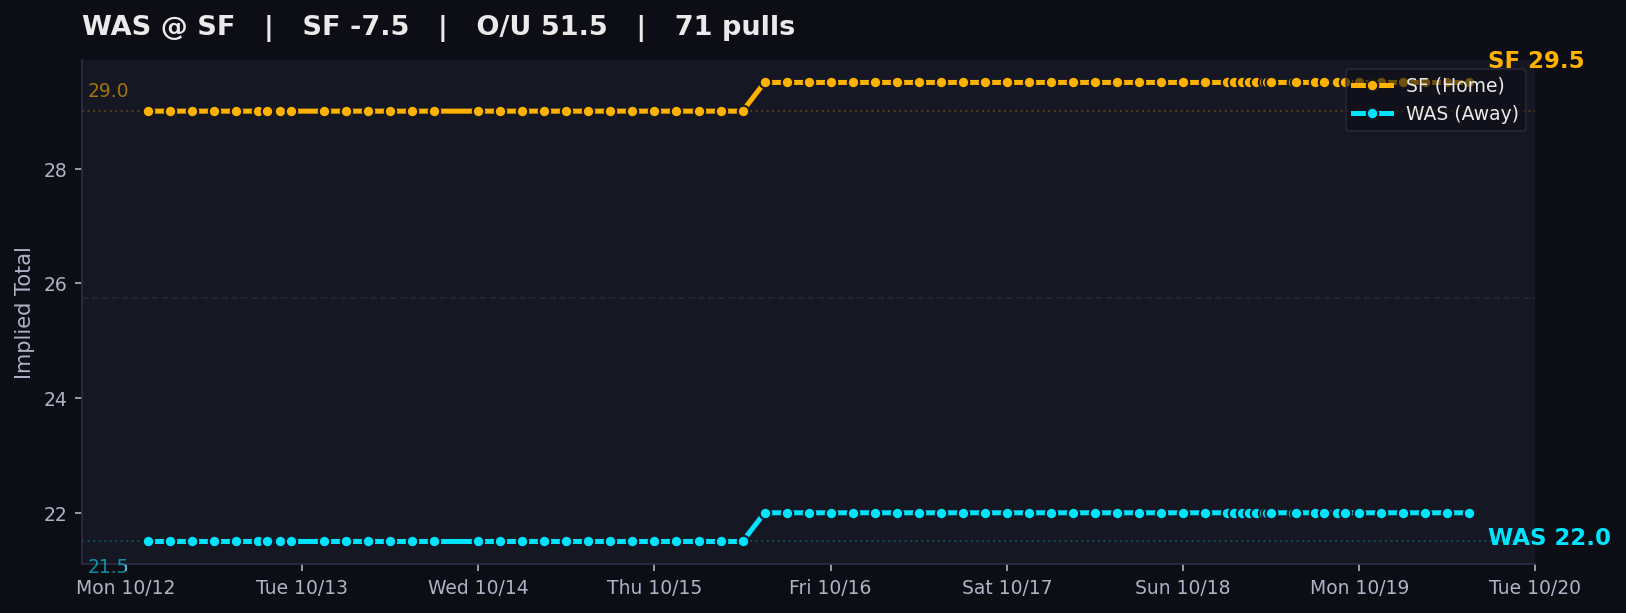
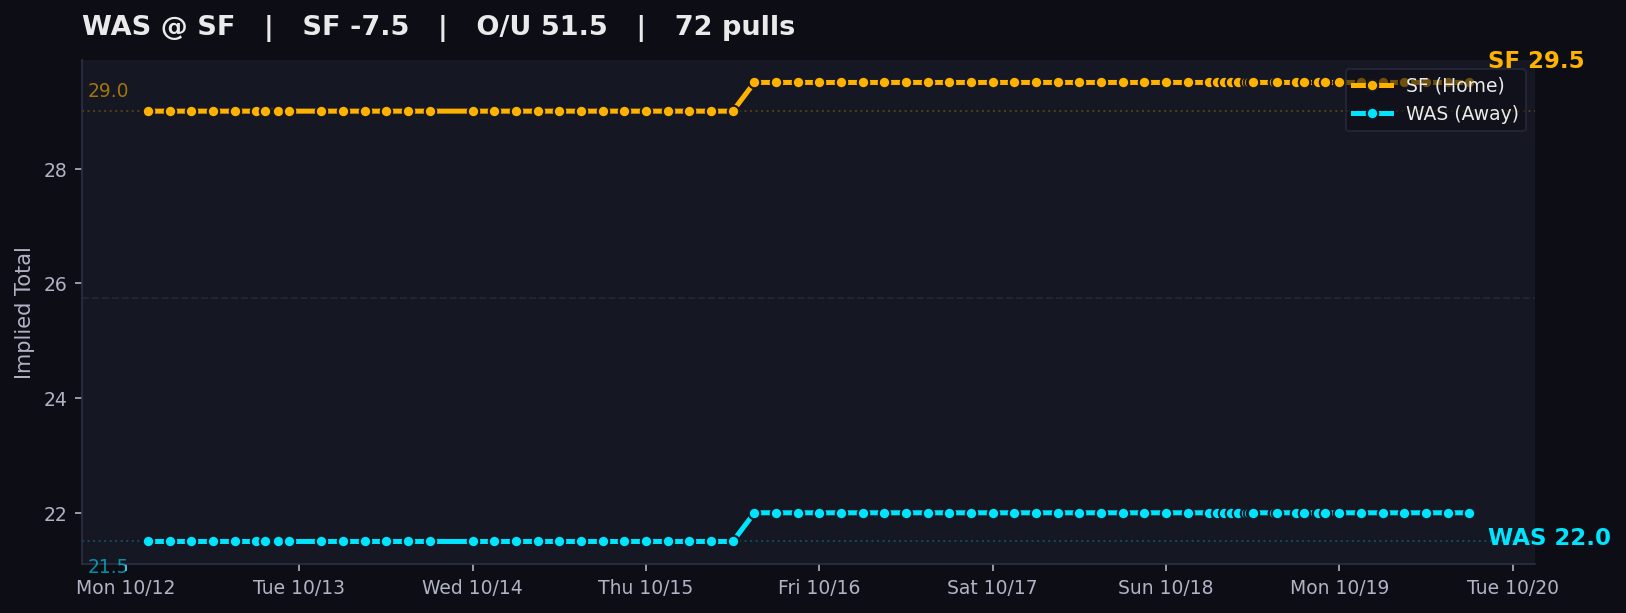
auto: local tracker sync

diff --git a/charts/index.html b/charts/index.html
@@ -311,7 +311,7 @@
     </div>
     <p class='sub'>
       DraftKings main lines &middot; Pinnacle cross-check &middot; Updated by the local Mac tracker<br>
-      Page rendered Mon Oct 19, 2026 3:00 PM CDT &middot; 835 valid chart dots &middot; 880 total pull attempts
+      Page rendered Mon Oct 19, 2026 6:00 PM CDT &middot; 836 valid chart dots &middot; 881 total pull attempts
       <span class='legend-box'>
         <span class='dot-teal'>● Away implied total</span>
         <span class='dot-amber'>● Home implied total</span>
@@ -324,9 +324,9 @@
     </details>
   </header>
 
-  <div id='feed-banner' class='alert-banner healthy' data-banner-kind='healthy' data-feed-ts='2026-10-19T20:00:01.441428+00:00' data-feed-ts-label='Mon Oct 19, 3:00 PM CDT'>
+  <div id='feed-banner' class='alert-banner healthy' data-banner-kind='healthy' data-feed-ts='2026-10-19T23:00:01.141889+00:00' data-feed-ts-label='Mon Oct 19, 6:00 PM CDT'>
             <span class='status-dot'></span>
-            <b>Feed Healthy:</b> All 1 open markets updated. 13 games have started and is showing its final verified pregame line. Board age based on oldest open market: <span id='feed-time'>Mon Oct 19, 3:00 PM CDT</span> (<span id='feed-age-dynamic'>just now</span>).
+            <b>Feed Healthy:</b> All 1 open markets updated. 13 games have started and is showing its final verified pregame line. Board age based on oldest open market: <span id='feed-time'>Mon Oct 19, 6:00 PM CDT</span> (<span id='feed-age-dynamic'>just now</span>).
         </div>
 
   <nav class='filter-bar' aria-label='Filter games by slate'>
@@ -396,7 +396,7 @@
                 <div><span>Last valid pull</span><strong>Thu 6:00 PM CT</strong></div>
                 <div><span>Chart dots</span><strong>34</strong></div>
             </div>
-                    <img class='expanded-chart' src='SEA_DEN.png?v=1792440020' alt='SEA at DEN line movement chart'>
+                    <img class='expanded-chart' src='SEA_DEN.png?v=1792450820' alt='SEA at DEN line movement chart'>
                     <p class='movement-note'>Total 42.5 → 40.5</p>
                 </div>
             </td>
@@ -437,7 +437,7 @@
                 <div><span>Last valid pull</span><strong>Sun 8:00 AM CT</strong></div>
                 <div><span>Chart dots</span><strong>56</strong></div>
             </div>
-                    <img class='expanded-chart' src='HOU_JAX.png?v=1792440020' alt='HOU at JAX line movement chart'>
+                    <img class='expanded-chart' src='HOU_JAX.png?v=1792450820' alt='HOU at JAX line movement chart'>
                     <p class='movement-note'>Spread JAX -3.0 → -2.5; Total 43.5 → 41.5</p>
                 </div>
             </td>
@@ -478,7 +478,7 @@
                 <div><span>Last valid pull</span><strong>Sun 12:00 PM CT</strong></div>
                 <div><span>Chart dots</span><strong>62</strong></div>
             </div>
-                    <img class='expanded-chart' src='CAR_PHI.png?v=1792440020' alt='CAR at PHI line movement chart'>
+                    <img class='expanded-chart' src='CAR_PHI.png?v=1792450820' alt='CAR at PHI line movement chart'>
                     <p class='movement-note'>Spread CAR +1.5 → -3.0; Total 42.5 → 39.5</p>
                 </div>
             </td>
@@ -513,7 +513,7 @@
                 <div><span>Last valid pull</span><strong>Sun 12:00 PM CT</strong></div>
                 <div><span>Chart dots</span><strong>55</strong></div>
             </div>
-                    <img class='expanded-chart' src='CHI_ATL.png?v=1792440020' alt='CHI at ATL line movement chart'>
+                    <img class='expanded-chart' src='CHI_ATL.png?v=1792450820' alt='CHI at ATL line movement chart'>
                     <p class='movement-note'>Spread CHI -3.0 → -1.5; Total 48.5 → 51.5</p>
                 </div>
             </td>
@@ -548,7 +548,7 @@
                 <div><span>Last valid pull</span><strong>Sun 12:00 PM CT</strong></div>
                 <div><span>Chart dots</span><strong>62</strong></div>
             </div>
-                    <img class='expanded-chart' src='PIT_TB.png?v=1792440020' alt='PIT at TB line movement chart'>
+                    <img class='expanded-chart' src='PIT_TB.png?v=1792450820' alt='PIT at TB line movement chart'>
                     <p class='movement-note'>Spread PIT -3.0 → -2.5; Total 40.5 → 37.5</p>
                 </div>
             </td>
@@ -583,7 +583,7 @@
                 <div><span>Last valid pull</span><strong>Sun 12:00 PM CT</strong></div>
                 <div><span>Chart dots</span><strong>62</strong></div>
             </div>
-                    <img class='expanded-chart' src='NO_NYG.png?v=1792440020' alt='NO at NYG line movement chart'>
+                    <img class='expanded-chart' src='NO_NYG.png?v=1792450820' alt='NO at NYG line movement chart'>
                     <p class='movement-note'>Spread NO +1.5 → -1.5</p>
                 </div>
             </td>
@@ -618,7 +618,7 @@
                 <div><span>Last valid pull</span><strong>Sun 12:00 PM CT</strong></div>
                 <div><span>Chart dots</span><strong>55</strong></div>
             </div>
-                    <img class='expanded-chart' src='BAL_CLE.png?v=1792440020' alt='BAL at CLE line movement chart'>
+                    <img class='expanded-chart' src='BAL_CLE.png?v=1792450820' alt='BAL at CLE line movement chart'>
                     <p class='movement-note'>Spread BAL -4.5 → -3.0; Total 40.5 → 39.5</p>
                 </div>
             </td>
@@ -653,7 +653,7 @@
                 <div><span>Last valid pull</span><strong>Sun 12:00 PM CT</strong></div>
                 <div><span>Chart dots</span><strong>62</strong></div>
             </div>
-                    <img class='expanded-chart' src='NYJ_NE.png?v=1792440020' alt='NYJ at NE line movement chart'>
+                    <img class='expanded-chart' src='NYJ_NE.png?v=1792450820' alt='NYJ at NE line movement chart'>
                     <p class='movement-note'>Total 44.5 → 43.5</p>
                 </div>
             </td>
@@ -688,7 +688,7 @@
                 <div><span>Last valid pull</span><strong>Sun 12:00 PM CT</strong></div>
                 <div><span>Chart dots</span><strong>62</strong></div>
             </div>
-                    <img class='expanded-chart' src='TEN_IND.png?v=1792440020' alt='TEN at IND line movement chart'>
+                    <img class='expanded-chart' src='TEN_IND.png?v=1792450820' alt='TEN at IND line movement chart'>
                     <p class='movement-note'>Spread IND -7.0 → -6.5; Total 44.5 → 43.5</p>
                 </div>
             </td>
@@ -729,7 +729,7 @@
                 <div><span>Last valid pull</span><strong>Sun 3:20 PM CT</strong></div>
                 <div><span>Chart dots</span><strong>64</strong></div>
             </div>
-                    <img class='expanded-chart' src='LAC_KC.png?v=1792440020' alt='LAC at KC line movement chart'>
+                    <img class='expanded-chart' src='LAC_KC.png?v=1792450820' alt='LAC at KC line movement chart'>
                     <p class='movement-note'>Spread KC -8.5 → -7.5; Total 43.5 → 41.5</p>
                 </div>
             </td>
@@ -764,7 +764,7 @@
                 <div><span>Last valid pull</span><strong>Sun 3:00 PM CT</strong></div>
                 <div><span>Chart dots</span><strong>62</strong></div>
             </div>
-                    <img class='expanded-chart' src='ARI_LAR.png?v=1792440020' alt='ARI at LAR line movement chart'>
+                    <img class='expanded-chart' src='ARI_LAR.png?v=1792450820' alt='ARI at LAR line movement chart'>
                     <p class='movement-note'>Total 52.5 → 51.5</p>
                 </div>
             </td>
@@ -799,7 +799,7 @@
                 <div><span>Last valid pull</span><strong>Sun 3:20 PM CT</strong></div>
                 <div><span>Chart dots</span><strong>62</strong></div>
             </div>
-                    <img class='expanded-chart' src='BUF_LVR.png?v=1792440020' alt='BUF at LVR line movement chart'>
+                    <img class='expanded-chart' src='BUF_LVR.png?v=1792450820' alt='BUF at LVR line movement chart'>
                     <p class='movement-note'>Spread BUF -6.0 → -5.5</p>
                 </div>
             </td>
@@ -840,7 +840,7 @@
                 <div><span>Last valid pull</span><strong>Sun 7:10 PM CT</strong></div>
                 <div><span>Chart dots</span><strong>66</strong></div>
             </div>
-                    <img class='expanded-chart' src='DAL_GB.png?v=1792440020' alt='DAL at GB line movement chart'>
+                    <img class='expanded-chart' src='DAL_GB.png?v=1792450820' alt='DAL at GB line movement chart'>
                     <p class='movement-note'>Spread DAL +1.5 → -1.5; Total 52.5 → 53.5</p>
                 </div>
             </td>
@@ -861,8 +861,8 @@
             <td class='it-away'>WAS 22.0</td>
             <td class='it-home'>SF 29.5</td>
             <td class='reason' title='Total 50.5 → 51.5'>Total 50.5 → 51.5</td>
-            <td style='text-align:center;'><span class='pill-fresh'>3:00 PM CT</span></td>
-            <td class='snaps'>71</td>
+            <td style='text-align:center;'><span class='pill-fresh'>6:00 PM CT</span></td>
+            <td class='snaps'>72</td>
         </tr>
         <tr id='desktop-panel-WAS_SF' class='chart-detail-row' data-slate='MNF' data-game-panel='WAS_SF' hidden>
             <td colspan='12'>
@@ -878,10 +878,10 @@
                 <div><span>Current total</span><strong>51.5</strong></div>
                 <div><span>Away implied</span><strong class='it-away'>WAS 22.0</strong></div>
                 <div><span>Home implied</span><strong class='it-home'>SF 29.5</strong></div>
-                <div><span>Last valid pull</span><strong>3:00 PM CT</strong></div>
-                <div><span>Chart dots</span><strong>71</strong></div>
+                <div><span>Last valid pull</span><strong>6:00 PM CT</strong></div>
+                <div><span>Chart dots</span><strong>72</strong></div>
             </div>
-                    <img class='expanded-chart' src='WAS_SF.png?v=1792440020' alt='WAS at SF line movement chart'>
+                    <img class='expanded-chart' src='WAS_SF.png?v=1792450820' alt='WAS at SF line movement chart'>
                     <p class='movement-note'>Total 50.5 → 51.5</p>
                 </div>
             </td>
@@ -916,7 +916,7 @@
                 <div><span>Last valid pull</span><strong>Thu 6:00 PM CT</strong></div>
                 <div><span>Chart dots</span><strong>34</strong></div>
             </div>
-                <img class='expanded-chart' src='SEA_DEN.png?v=1792440020' alt='SEA at DEN line movement chart'>
+                <img class='expanded-chart' src='SEA_DEN.png?v=1792450820' alt='SEA at DEN line movement chart'>
                 <p class='pull-note'><span class='pull-dot'></span> Every dot is a valid completed pull · 34 chart dots</p>
             </div>
         </article><article class='mobile-game-card closed-game' data-slate='OTHER_PRIMETIME' data-game='HOU_JAX'>
@@ -943,7 +943,7 @@
                 <div><span>Last valid pull</span><strong>Sun 8:00 AM CT</strong></div>
                 <div><span>Chart dots</span><strong>56</strong></div>
             </div>
-                <img class='expanded-chart' src='HOU_JAX.png?v=1792440020' alt='HOU at JAX line movement chart'>
+                <img class='expanded-chart' src='HOU_JAX.png?v=1792450820' alt='HOU at JAX line movement chart'>
                 <p class='pull-note'><span class='pull-dot'></span> Every dot is a valid completed pull · 56 chart dots</p>
             </div>
         </article><article class='mobile-game-card closed-game' data-slate='SUN_EARLY' data-game='CAR_PHI'>
@@ -970,7 +970,7 @@
                 <div><span>Last valid pull</span><strong>Sun 12:00 PM CT</strong></div>
                 <div><span>Chart dots</span><strong>62</strong></div>
             </div>
-                <img class='expanded-chart' src='CAR_PHI.png?v=1792440020' alt='CAR at PHI line movement chart'>
+                <img class='expanded-chart' src='CAR_PHI.png?v=1792450820' alt='CAR at PHI line movement chart'>
                 <p class='pull-note'><span class='pull-dot'></span> Every dot is a valid completed pull · 62 chart dots</p>
             </div>
         </article><article class='mobile-game-card closed-game' data-slate='SUN_EARLY' data-game='CHI_ATL'>
@@ -997,7 +997,7 @@
                 <div><span>Last valid pull</span><strong>Sun 12:00 PM CT</strong></div>
                 <div><span>Chart dots</span><strong>55</strong></div>
             </div>
-                <img class='expanded-chart' src='CHI_ATL.png?v=1792440020' alt='CHI at ATL line movement chart'>
+                <img class='expanded-chart' src='CHI_ATL.png?v=1792450820' alt='CHI at ATL line movement chart'>
                 <p class='pull-note'><span class='pull-dot'></span> Every dot is a valid completed pull · 55 chart dots</p>
             </div>
         </article><article class='mobile-game-card closed-game' data-slate='SUN_EARLY' data-game='PIT_TB'>
@@ -1024,7 +1024,7 @@
                 <div><span>Last valid pull</span><strong>Sun 12:00 PM CT</strong></div>
                 <div><span>Chart dots</span><strong>62</strong></div>
             </div>
-                <img class='expanded-chart' src='PIT_TB.png?v=1792440020' alt='PIT at TB line movement chart'>
+                <img class='expanded-chart' src='PIT_TB.png?v=1792450820' alt='PIT at TB line movement chart'>
                 <p class='pull-note'><span class='pull-dot'></span> Every dot is a valid completed pull · 62 chart dots</p>
             </div>
         </article><article class='mobile-game-card closed-game' data-slate='SUN_EARLY' data-game='NO_NYG'>
@@ -1051,7 +1051,7 @@
                 <div><span>Last valid pull</span><strong>Sun 12:00 PM CT</strong></div>
                 <div><span>Chart dots</span><strong>62</strong></div>
             </div>
-                <img class='expanded-chart' src='NO_NYG.png?v=1792440020' alt='NO at NYG line movement chart'>
+                <img class='expanded-chart' src='NO_NYG.png?v=1792450820' alt='NO at NYG line movement chart'>
                 <p class='pull-note'><span class='pull-dot'></span> Every dot is a valid completed pull · 62 chart dots</p>
             </div>
         </article><article class='mobile-game-card closed-game' data-slate='SUN_EARLY' data-game='BAL_CLE'>
@@ -1078,7 +1078,7 @@
                 <div><span>Last valid pull</span><strong>Sun 12:00 PM CT</strong></div>
                 <div><span>Chart dots</span><strong>55</strong></div>
             </div>
-                <img class='expanded-chart' src='BAL_CLE.png?v=1792440020' alt='BAL at CLE line movement chart'>
+                <img class='expanded-chart' src='BAL_CLE.png?v=1792450820' alt='BAL at CLE line movement chart'>
                 <p class='pull-note'><span class='pull-dot'></span> Every dot is a valid completed pull · 55 chart dots</p>
             </div>
         </article><article class='mobile-game-card closed-game' data-slate='SUN_EARLY' data-game='NYJ_NE'>
@@ -1105,7 +1105,7 @@
                 <div><span>Last valid pull</span><strong>Sun 12:00 PM CT</strong></div>
                 <div><span>Chart dots</span><strong>62</strong></div>
             </div>
-                <img class='expanded-chart' src='NYJ_NE.png?v=1792440020' alt='NYJ at NE line movement chart'>
+                <img class='expanded-chart' src='NYJ_NE.png?v=1792450820' alt='NYJ at NE line movement chart'>
                 <p class='pull-note'><span class='pull-dot'></span> Every dot is a valid completed pull · 62 chart dots</p>
             </div>
         </article><article class='mobile-game-card closed-game' data-slate='SUN_EARLY' data-game='TEN_IND'>
@@ -1132,7 +1132,7 @@
                 <div><span>Last valid pull</span><strong>Sun 12:00 PM CT</strong></div>
                 <div><span>Chart dots</span><strong>62</strong></div>
             </div>
-                <img class='expanded-chart' src='TEN_IND.png?v=1792440020' alt='TEN at IND line movement chart'>
+                <img class='expanded-chart' src='TEN_IND.png?v=1792450820' alt='TEN at IND line movement chart'>
                 <p class='pull-note'><span class='pull-dot'></span> Every dot is a valid completed pull · 62 chart dots</p>
             </div>
         </article><article class='mobile-game-card closed-game' data-slate='SUN_LATE' data-game='LAC_KC'>
@@ -1159,7 +1159,7 @@
                 <div><span>Last valid pull</span><strong>Sun 3:20 PM CT</strong></div>
                 <div><span>Chart dots</span><strong>64</strong></div>
             </div>
-                <img class='expanded-chart' src='LAC_KC.png?v=1792440020' alt='LAC at KC line movement chart'>
+                <img class='expanded-chart' src='LAC_KC.png?v=1792450820' alt='LAC at KC line movement chart'>
                 <p class='pull-note'><span class='pull-dot'></span> Every dot is a valid completed pull · 64 chart dots</p>
             </div>
         </article><article class='mobile-game-card closed-game' data-slate='SUN_LATE' data-game='ARI_LAR'>
@@ -1186,7 +1186,7 @@
                 <div><span>Last valid pull</span><strong>Sun 3:00 PM CT</strong></div>
                 <div><span>Chart dots</span><strong>62</strong></div>
             </div>
-                <img class='expanded-chart' src='ARI_LAR.png?v=1792440020' alt='ARI at LAR line movement chart'>
+                <img class='expanded-chart' src='ARI_LAR.png?v=1792450820' alt='ARI at LAR line movement chart'>
                 <p class='pull-note'><span class='pull-dot'></span> Every dot is a valid completed pull · 62 chart dots</p>
             </div>
         </article><article class='mobile-game-card closed-game' data-slate='SUN_LATE' data-game='BUF_LVR'>
@@ -1213,7 +1213,7 @@
                 <div><span>Last valid pull</span><strong>Sun 3:20 PM CT</strong></div>
                 <div><span>Chart dots</span><strong>62</strong></div>
             </div>
-                <img class='expanded-chart' src='BUF_LVR.png?v=1792440020' alt='BUF at LVR line movement chart'>
+                <img class='expanded-chart' src='BUF_LVR.png?v=1792450820' alt='BUF at LVR line movement chart'>
                 <p class='pull-note'><span class='pull-dot'></span> Every dot is a valid completed pull · 62 chart dots</p>
             </div>
         </article><article class='mobile-game-card closed-game' data-slate='SNF' data-game='DAL_GB'>
@@ -1240,7 +1240,7 @@
                 <div><span>Last valid pull</span><strong>Sun 7:10 PM CT</strong></div>
                 <div><span>Chart dots</span><strong>66</strong></div>
             </div>
-                <img class='expanded-chart' src='DAL_GB.png?v=1792440020' alt='DAL at GB line movement chart'>
+                <img class='expanded-chart' src='DAL_GB.png?v=1792450820' alt='DAL at GB line movement chart'>
                 <p class='pull-note'><span class='pull-dot'></span> Every dot is a valid completed pull · 66 chart dots</p>
             </div>
         </article><article class='mobile-game-card ' data-slate='MNF' data-game='WAS_SF'>
@@ -1264,11 +1264,11 @@
                 <div><span>Current total</span><strong>51.5</strong></div>
                 <div><span>Away implied</span><strong class='it-away'>WAS 22.0</strong></div>
                 <div><span>Home implied</span><strong class='it-home'>SF 29.5</strong></div>
-                <div><span>Last valid pull</span><strong>3:00 PM CT</strong></div>
-                <div><span>Chart dots</span><strong>71</strong></div>
+                <div><span>Last valid pull</span><strong>6:00 PM CT</strong></div>
+                <div><span>Chart dots</span><strong>72</strong></div>
             </div>
-                <img class='expanded-chart' src='WAS_SF.png?v=1792440020' alt='WAS at SF line movement chart'>
-                <p class='pull-note'><span class='pull-dot'></span> Every dot is a valid completed pull · 71 chart dots</p>
+                <img class='expanded-chart' src='WAS_SF.png?v=1792450820' alt='WAS at SF line movement chart'>
+                <p class='pull-note'><span class='pull-dot'></span> Every dot is a valid completed pull · 72 chart dots</p>
             </div>
         </article>
   </section>
